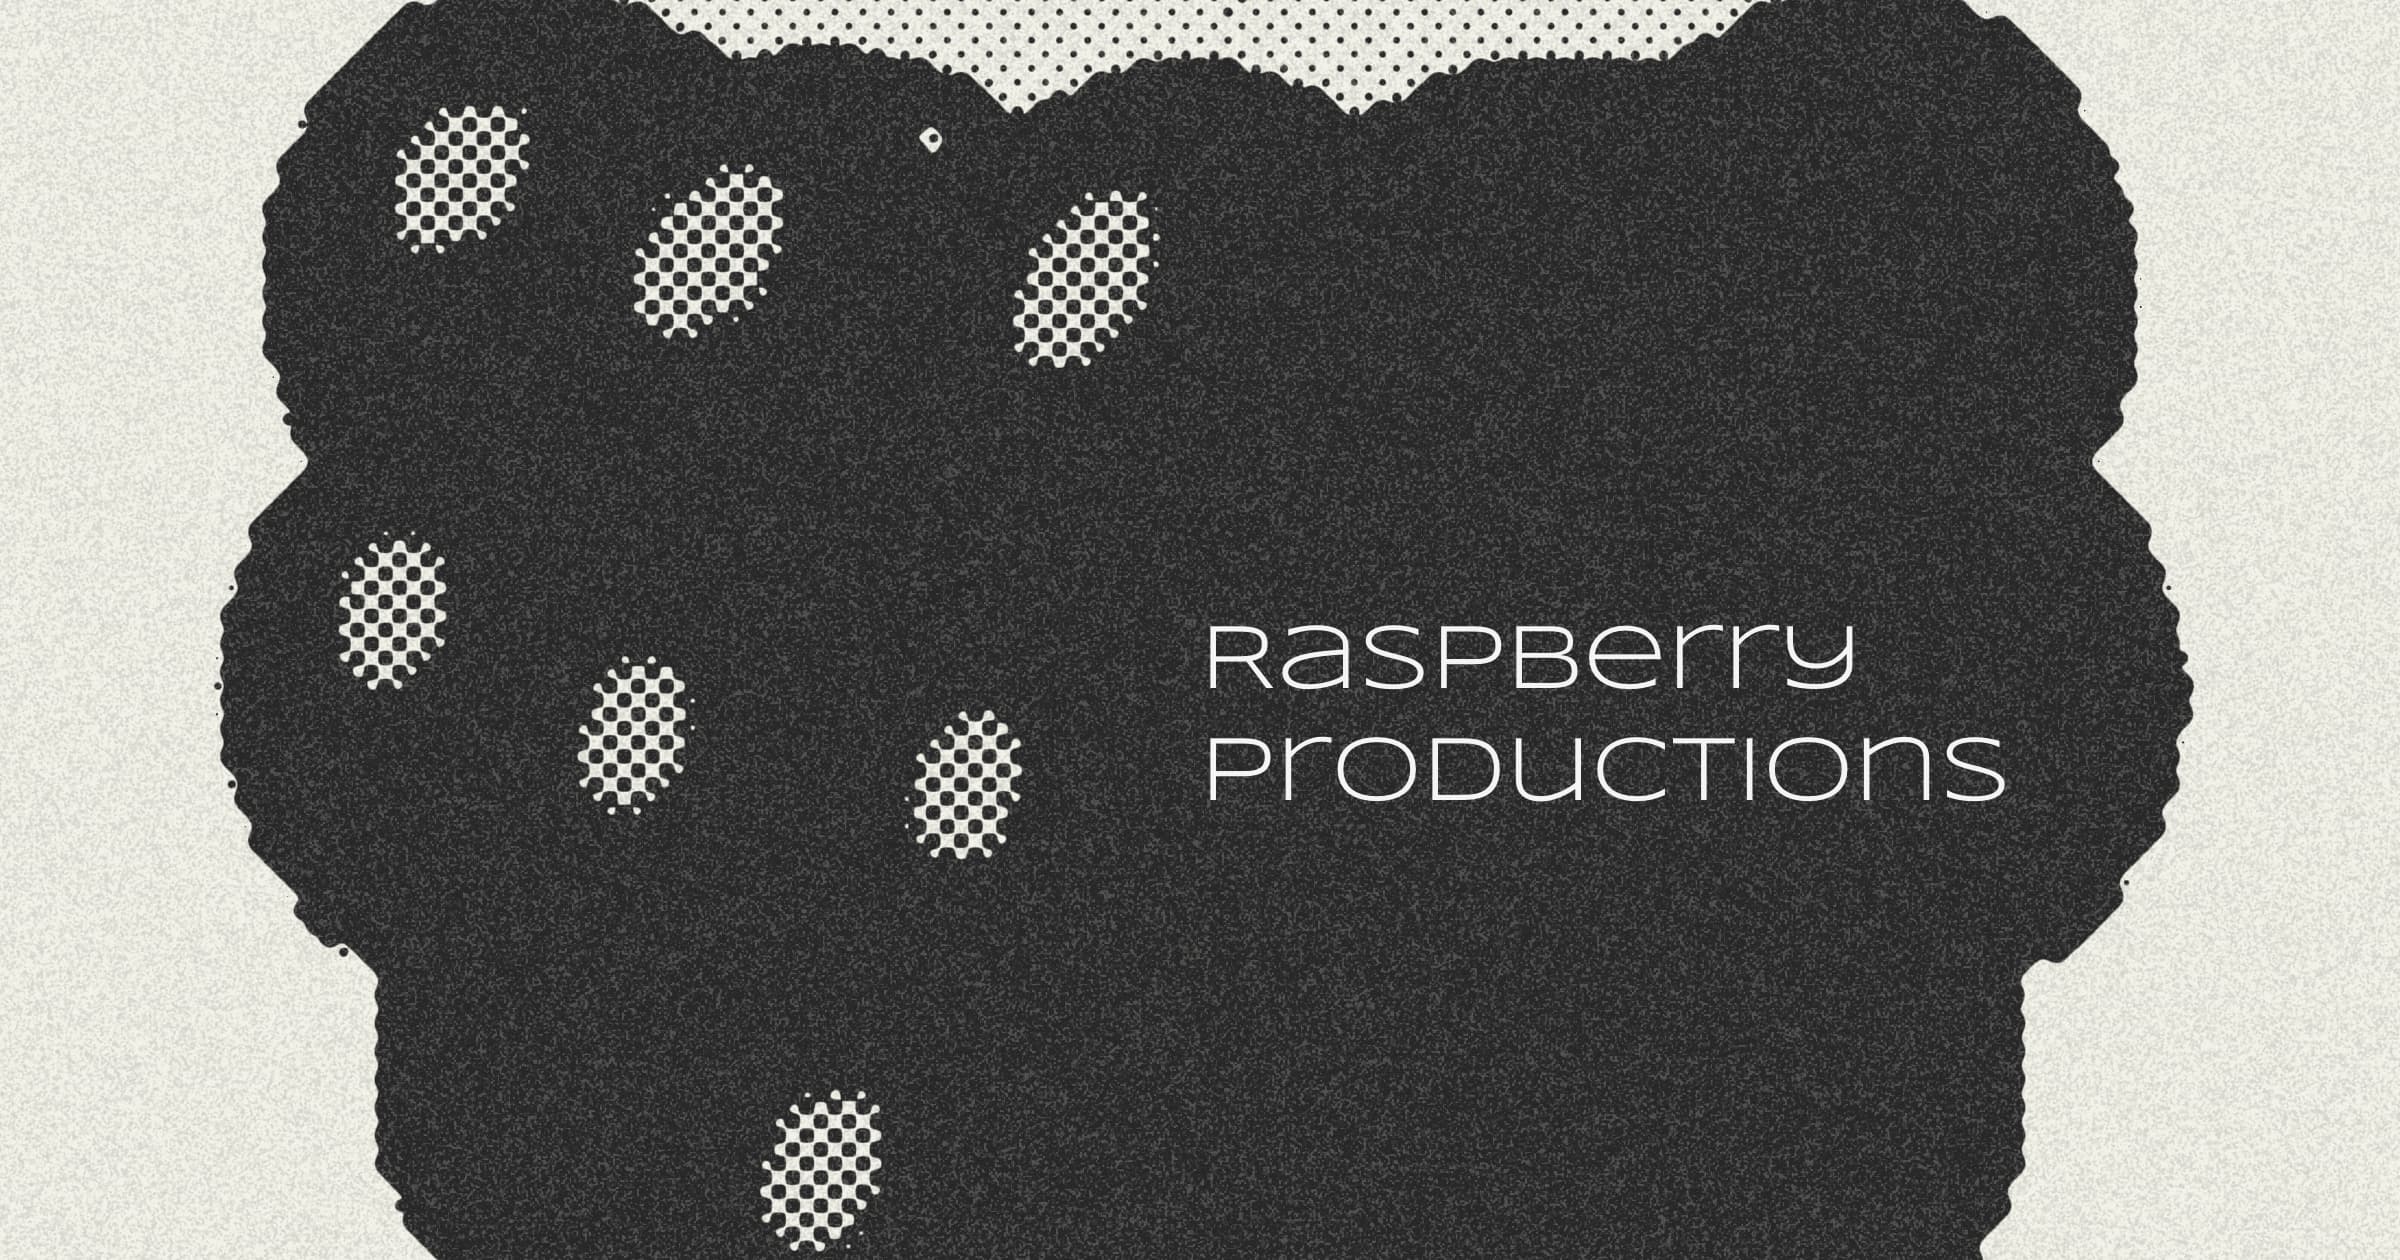
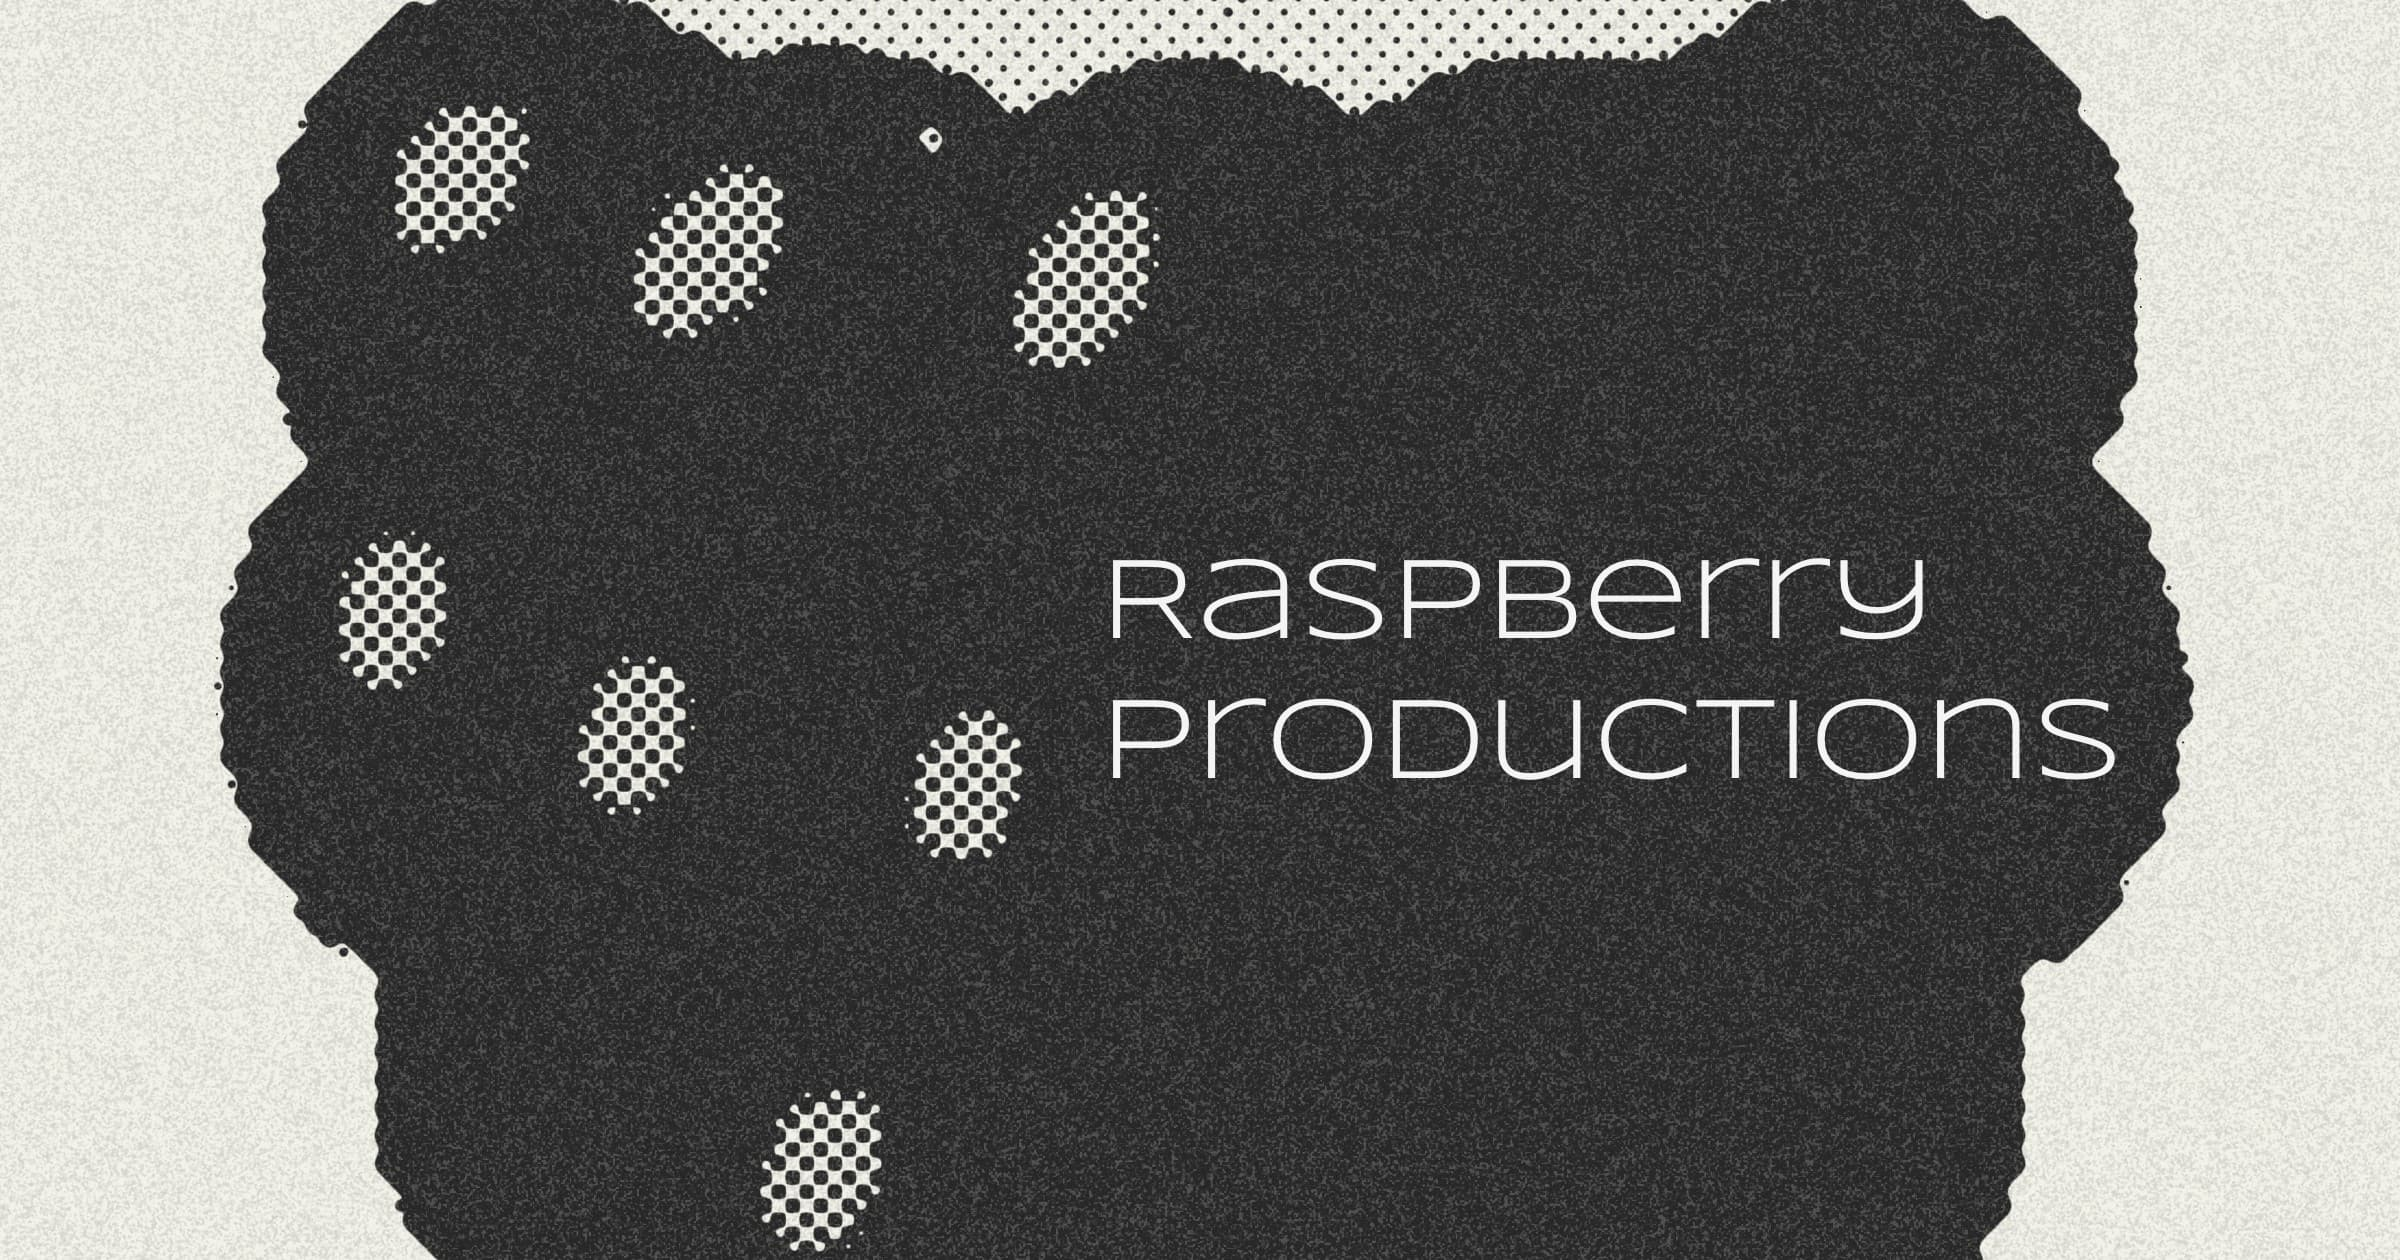
Nit

Changed region(s): [[0.4375, 0.4333, 0.9062, 0.65]]

diff --git a/app/raspberry-landing.tsx b/app/raspberry-landing.tsx
@@ -20,7 +20,7 @@ export function RaspberryLanding() {
 	}, []);
 
 	return (
-		<main className="relative min-h-[max(100svh,620px)] w-full overflow-x-clip bg-black min-[360px]:min-h-[max(100svh,680px)] lg:min-h-[max(100svh,720px)] xl:min-h-[max(100svh,832px)]">
+		<main className="relative min-h-[max(100svh,620px)] w-full overflow-hidden bg-black min-[360px]:min-h-[max(100svh,680px)] lg:min-h-[100svh]">
 			<Dithering
 				aria-hidden="true"
 				className="pointer-events-none absolute inset-0"
@@ -50,53 +50,61 @@ export function RaspberryLanding() {
 				size={0.6}
 				type="classic"
 			/>
-			<section className="absolute inset-x-4 bottom-8 z-10 flex flex-col items-center gap-8 text-center min-[320px]:inset-x-6 min-[360px]:bottom-10 sm:inset-x-10 sm:bottom-12 lg:inset-x-auto lg:right-[6.25%] lg:top-[30%] lg:bottom-auto lg:items-start lg:gap-10 lg:text-left xl:left-[62.1%] xl:right-auto xl:top-[32.7%] xl:gap-12">
-				<h1
-					aria-label="Raspberry Productions"
-					className="text-[22px] leading-[1.18] text-[#f4f4f4] min-[320px]:text-[26px] min-[360px]:text-[30px] sm:text-[38px] lg:text-[38px] lg:leading-[48px] xl:text-[46px] xl:leading-[56px]"
-				>
-					Raspberry
-					<br />
-					Productions
-				</h1>
-				<a
-					aria-label="Contact Raspberry Productions by email"
-					className="group flex w-fit flex-col items-center gap-[5px] text-[#a1b3c3] transition duration-200 hover:text-[#f4f4f4] focus-visible:text-[#f4f4f4]"
-					href="mailto:[email redacted]"
-				>
-					<svg
+			<div className="absolute inset-x-4 bottom-8 z-10 flex justify-center min-[320px]:inset-x-6 min-[360px]:bottom-10 sm:inset-x-10 sm:bottom-12 lg:inset-0 lg:bottom-auto lg:items-start lg:justify-start">
+				<div className="flex flex-col items-center gap-8 text-center lg:w-full lg:max-w-[1280px] lg:flex-row lg:items-start lg:gap-16 lg:px-16 lg:pt-[30svh] lg:text-left xl:gap-20 xl:px-0 xl:pt-[272px]">
+					<div
 						aria-hidden="true"
-						className="h-[72px] w-[72px] shrink-0 min-[320px]:h-[86px] min-[320px]:w-[86px] sm:h-[104px] sm:w-[104px] xl:h-[120px] xl:w-[120px]"
-						fill="none"
-						viewBox="0 0 72 72"
-						xmlns="http://www.w3.org/2000/svg"
-					>
-						<path
-							className="fill-current"
-							d="M43.98 25.695H28.02V63.268H43.98V25.695Z"
-						/>
-						<path
-							className="fill-current"
-							d="M49.12 61.547H22.887V63.503H49.12V61.547Z"
-						/>
-						<path
-							className="fill-current"
-							d="M43.984 25.695H22.887V27.651H43.984V25.695Z"
-						/>
-						<path
-							className="fill-current"
-							d="M36.002 20.637C40.41 20.637 43.984 17.063 43.984 12.654C43.984 8.246 40.41 4.672 36.002 4.672C31.593 4.672 28.02 8.246 28.02 12.654C28.02 17.063 31.593 20.637 36.002 20.637Z"
-						/>
-						<path
-							className="stroke-current"
-							d="M36 71.039C55.349 71.039 71.035 55.353 71.035 36.004C71.035 16.655 55.349 0.969 36 0.969C16.651 0.969 0.965 16.655 0.965 36.004C0.965 55.353 16.651 71.039 36 71.039Z"
-							strokeMiterlimit="10"
-							strokeWidth="1.934"
-						/>
-					</svg>
-					<span className="text-xs font-bold leading-4 uppercase">Contact</span>
-				</a>
-			</section>
+						className="hidden shrink-0 lg:block lg:w-[min(52vw,640px)] xl:w-[705px]"
+					/>
+					<section className="flex flex-col items-center gap-8 lg:items-start lg:gap-10 xl:gap-[35px]">
+						<h1
+							aria-label="Raspberry Productions"
+							className="text-[22px] leading-[1.18] text-[#f4f4f4] min-[320px]:text-[26px] min-[360px]:text-[30px] sm:text-[38px] lg:text-[38px] lg:leading-[48px] xl:text-[46px] xl:leading-[56px]"
+						>
+							Raspberry
+							<br />
+							Productions
+						</h1>
+						<a
+							aria-label="Contact Raspberry Productions by email"
+							className="group flex w-fit flex-col items-center gap-[5px] text-[#a1b3c3] transition duration-200 hover:text-[#f4f4f4] focus-visible:text-[#f4f4f4]"
+							href="mailto:[email redacted]"
+						>
+							<svg
+								aria-hidden="true"
+								className="h-[72px] w-[72px] shrink-0 min-[320px]:h-[86px] min-[320px]:w-[86px] sm:h-[104px] sm:w-[104px] xl:h-[120px] xl:w-[120px]"
+								fill="none"
+								viewBox="0 0 72 72"
+								xmlns="http://www.w3.org/2000/svg"
+							>
+								<path
+									className="fill-current"
+									d="M43.98 25.695H28.02V63.268H43.98V25.695Z"
+								/>
+								<path
+									className="fill-current"
+									d="M49.12 61.547H22.887V63.503H49.12V61.547Z"
+								/>
+								<path
+									className="fill-current"
+									d="M43.984 25.695H22.887V27.651H43.984V25.695Z"
+								/>
+								<path
+									className="fill-current"
+									d="M36.002 20.637C40.41 20.637 43.984 17.063 43.984 12.654C43.984 8.246 40.41 4.672 36.002 4.672C31.593 4.672 28.02 8.246 28.02 12.654C28.02 17.063 31.593 20.637 36.002 20.637Z"
+								/>
+								<path
+									className="stroke-current"
+									d="M36 71.039C55.349 71.039 71.035 55.353 71.035 36.004C71.035 16.655 55.349 0.969 36 0.969C16.651 0.969 0.965 16.655 0.965 36.004C0.965 55.353 16.651 71.039 36 71.039Z"
+									strokeMiterlimit="10"
+									strokeWidth="1.934"
+								/>
+							</svg>
+							<span className="text-xs font-bold leading-4">Contact</span>
+						</a>
+					</section>
+				</div>
+			</div>
 		</main>
 	);
 }

diff --git a/app/folder/page.tsx b/app/folder/page.tsx
@@ -1,0 +1,84 @@
+import type { Metadata } from "next";
+
+import { FolderFrame } from "@/app/_components/folder-frame";
+
+export const metadata: Metadata = {
+	title: "Folder Frame | Raspberry Productions",
+	description: "A React showcase for the Paper Folder frame.",
+};
+
+const folderVariants = [
+	{
+		label: "Projects",
+		size: 88,
+	},
+	{
+		label: "Drafts",
+		size: 76,
+	},
+	{
+		label: "Archive",
+		size: 64,
+	},
+];
+
+export default function FolderPage() {
+	return (
+		<main className="min-h-[100svh] w-full overflow-hidden bg-black px-6 py-10 text-[#f4f4f4] sm:px-10 lg:px-16">
+			<div className="mx-auto flex min-h-[calc(100svh-80px)] w-full max-w-6xl flex-col gap-16">
+				<header className="flex flex-col gap-8 border-[#a1b3c333] border-b pb-10 lg:flex-row lg:items-end lg:justify-between">
+					<div className="flex max-w-3xl flex-col gap-5">
+						<p className="text-[#a1b3c3] text-xs font-bold leading-4 tracking-[0.18em]">
+							PAPER MCP / FOLDER
+						</p>
+						<h1 className="max-w-3xl text-5xl leading-[1.05] sm:text-6xl lg:text-7xl">
+							Folder Frame
+						</h1>
+					</div>
+					<p className="max-w-sm text-[#a1b3c3] text-sm font-bold leading-6 tracking-[0.08em]">
+						Selected Paper frame converted into a reusable React component.
+					</p>
+				</header>
+
+				<section className="grid min-w-0 flex-1 gap-10 lg:grid-cols-[minmax(0,1fr)_360px] lg:items-stretch">
+					<div className="relative flex min-h-[420px] min-w-0 items-center justify-center overflow-hidden rounded-lg border border-[#a1b3c333] bg-[#050505] p-8">
+						<div
+							aria-hidden="true"
+							className="absolute inset-0 opacity-25"
+							style={{
+								backgroundImage:
+									"linear-gradient(#a1b3c314 1px, transparent 1px), linear-gradient(90deg, #a1b3c314 1px, transparent 1px)",
+								backgroundSize: "32px 32px",
+							}}
+						/>
+						<FolderFrame className="relative z-10" size={220} />
+					</div>
+
+					<aside className="flex min-w-0 flex-col justify-between gap-10 rounded-lg border border-[#a1b3c333] bg-[#050505] p-6">
+						<div className="flex flex-col gap-4">
+							<p className="text-[#a1b3c3] text-xs font-bold leading-4 tracking-[0.18em]">
+								SOURCE SIZE
+							</p>
+							<div className="flex flex-col items-start gap-6 sm:flex-row sm:items-end sm:justify-between">
+								<FolderFrame />
+								<p className="text-[#f4f4f4] text-left text-sm font-bold leading-5 tracking-[0.08em] sm:text-right">
+									120 x 136
+									<br />
+									DEFAULT
+								</p>
+							</div>
+						</div>
+
+						<ul className="grid grid-cols-1 items-end gap-8 sm:grid-cols-3 sm:gap-4">
+							{folderVariants.map((folder) => (
+								<li className="flex min-w-0 justify-center" key={folder.label}>
+									<FolderFrame label={folder.label} size={folder.size} />
+								</li>
+							))}
+						</ul>
+					</aside>
+				</section>
+			</div>
+		</main>
+	);
+}

diff --git a/app/_components/folder-frame.tsx b/app/_components/folder-frame.tsx
@@ -1,0 +1,62 @@
+import type { CSSProperties } from "react";
+
+type FolderFrameProps = {
+	className?: string;
+	folderColor?: string;
+	label?: string;
+	labelColor?: string;
+	size?: number;
+	strokeColor?: string;
+	style?: CSSProperties;
+};
+
+export function FolderFrame({
+	className,
+	folderColor = "#A1B3C3",
+	label = "Projects",
+	labelColor = folderColor,
+	size = 120,
+	strokeColor = "#FFFFFF",
+	style,
+}: FolderFrameProps) {
+	const wrapperStyle = {
+		width: `${size}px`,
+		...style,
+	} satisfies CSSProperties;
+
+	return (
+		<figure
+			className={["flex flex-col items-center font-sans antialiased", className]
+				.filter(Boolean)
+				.join(" ")}
+			style={wrapperStyle}
+		>
+			<svg
+				aria-hidden="true"
+				className="shrink-0 overflow-visible"
+				fill="none"
+				height={size}
+				viewBox="0 0 74 72"
+				width={size}
+				xmlns="http://www.w3.org/2000/svg"
+			>
+				<path
+					d="M21.686 3.5C23.939 3.5 26.104 4.396 27.697 5.99L31.01 9.303C32.416 10.709 34.323 11.5 36.313 11.5H69C71.486 11.5 73.5 13.514 73.5 16V64C73.5 66.486 71.486 68.5 69 68.5H5C2.514 68.5 0.5 66.486 0.5 64V8C0.5 5.514 2.514 3.5 5 3.5H21.686Z"
+					fill={folderColor}
+					stroke={strokeColor}
+				/>
+				<path
+					d="M69 15.5C71.485 15.5 73.5 17.515 73.5 20V64C73.5 66.485 71.485 68.5 69 68.5H5C2.515 68.5 0.5 66.485 0.5 64V20C0.5 17.515 2.515 15.5 5 15.5H69Z"
+					fill={folderColor}
+					stroke={strokeColor}
+				/>
+			</svg>
+			<figcaption
+				className="w-fit text-center text-xs font-bold leading-4 tracking-[0.15em]"
+				style={{ color: labelColor }}
+			>
+				{label}
+			</figcaption>
+		</figure>
+	);
+}